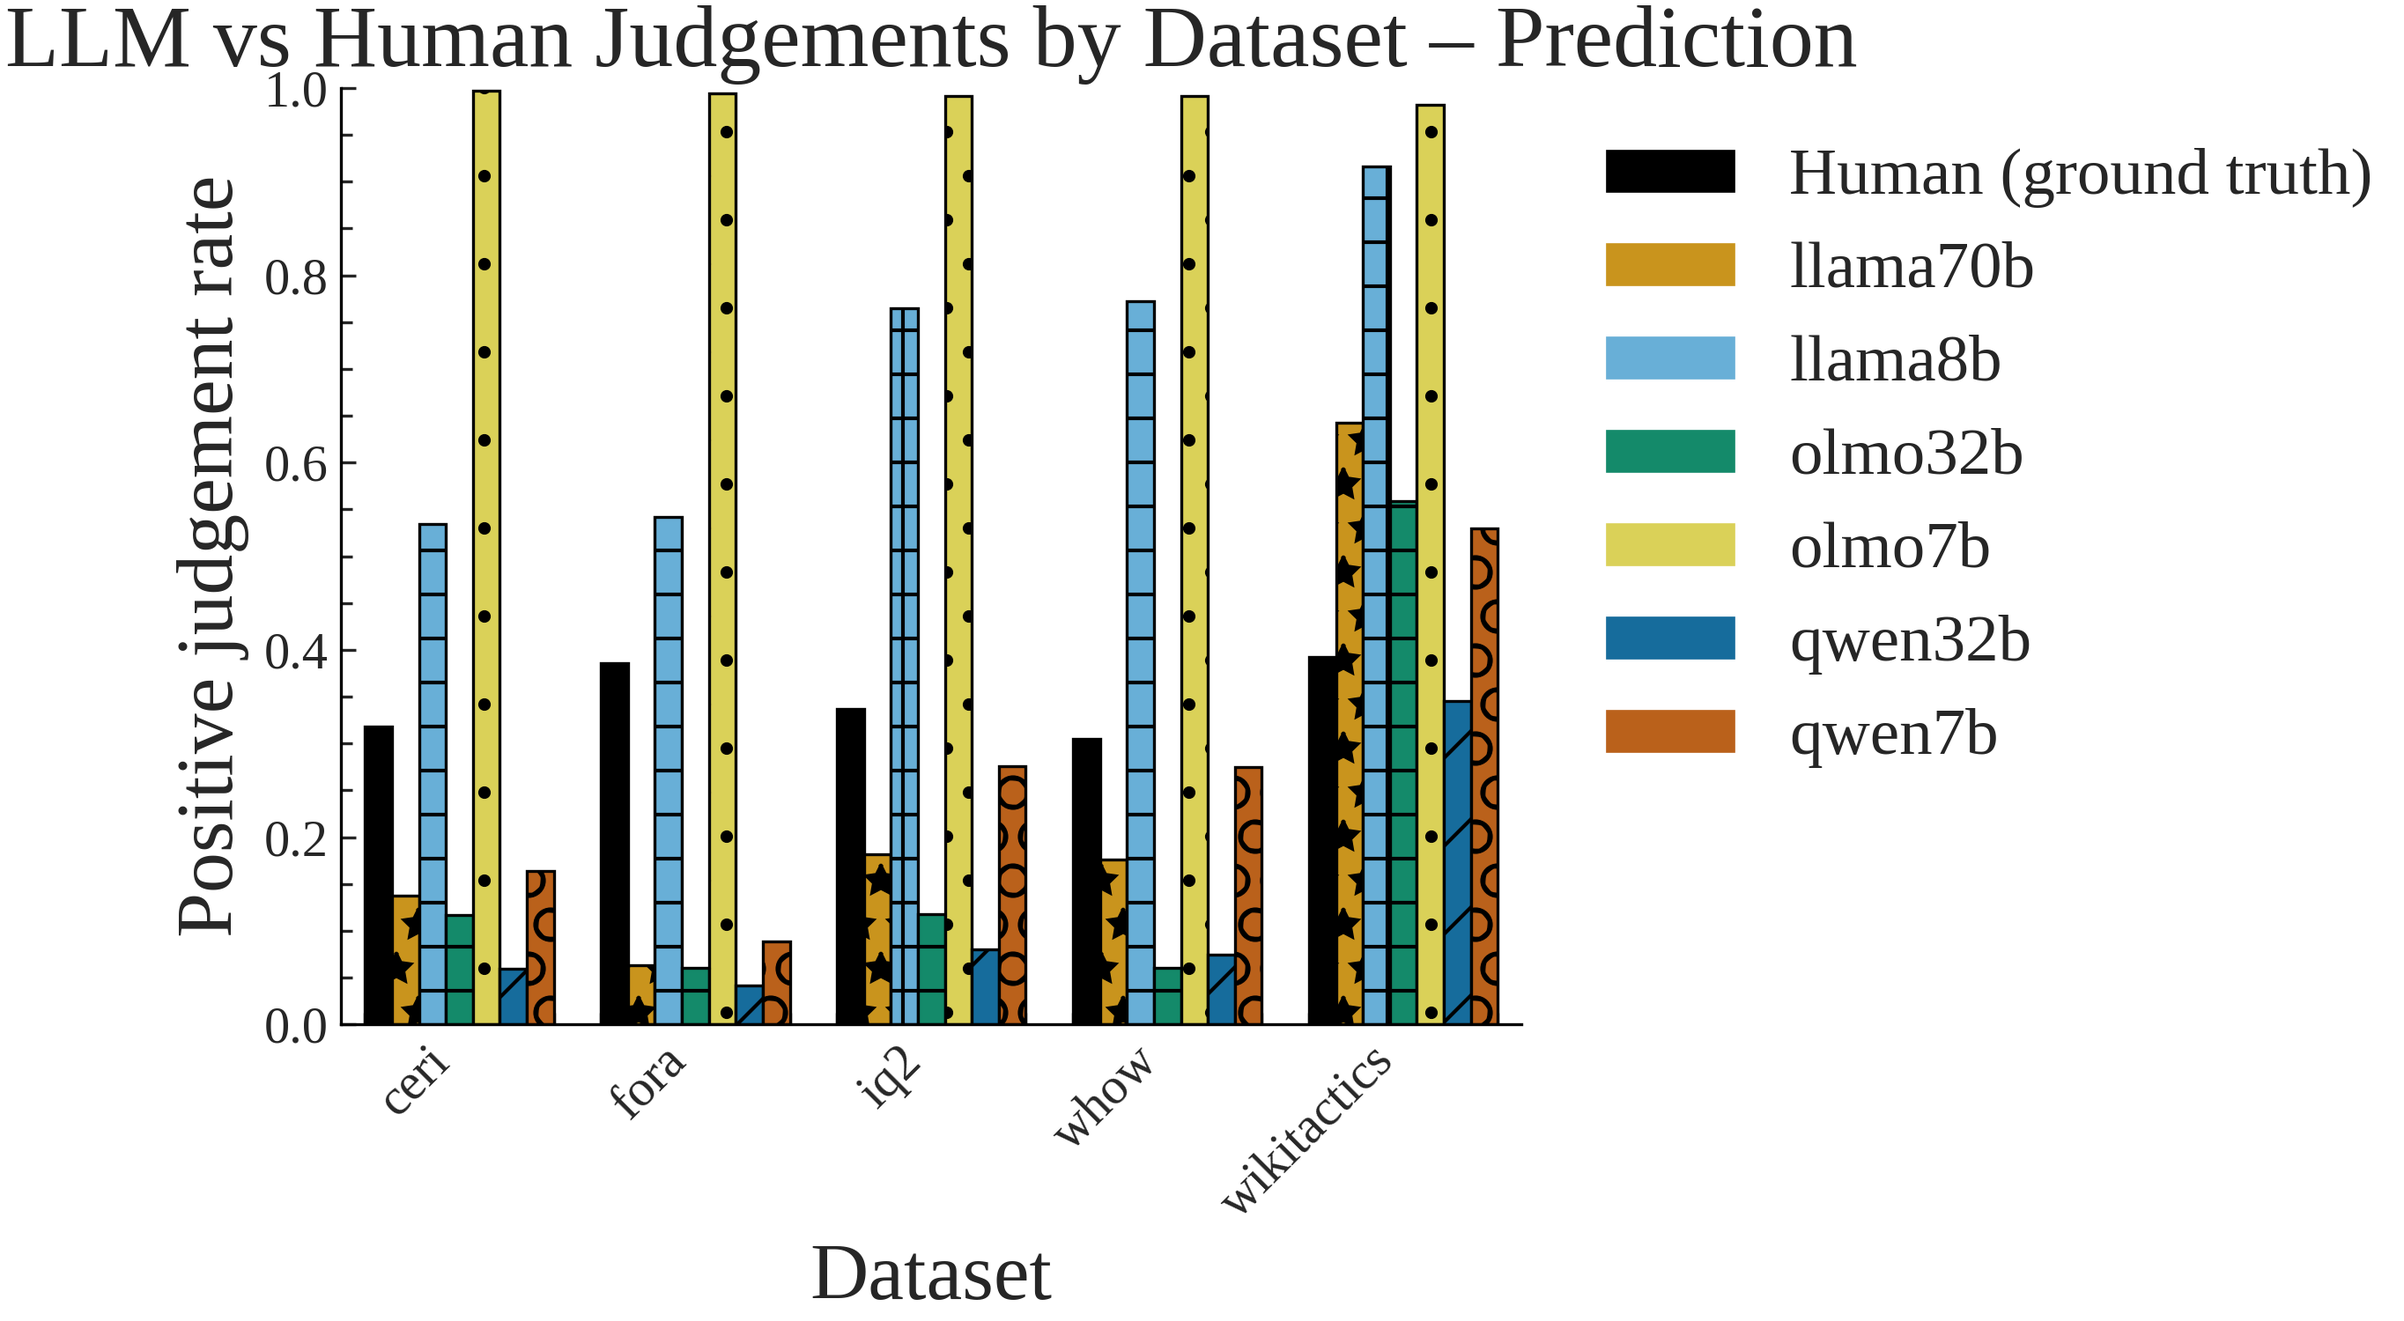
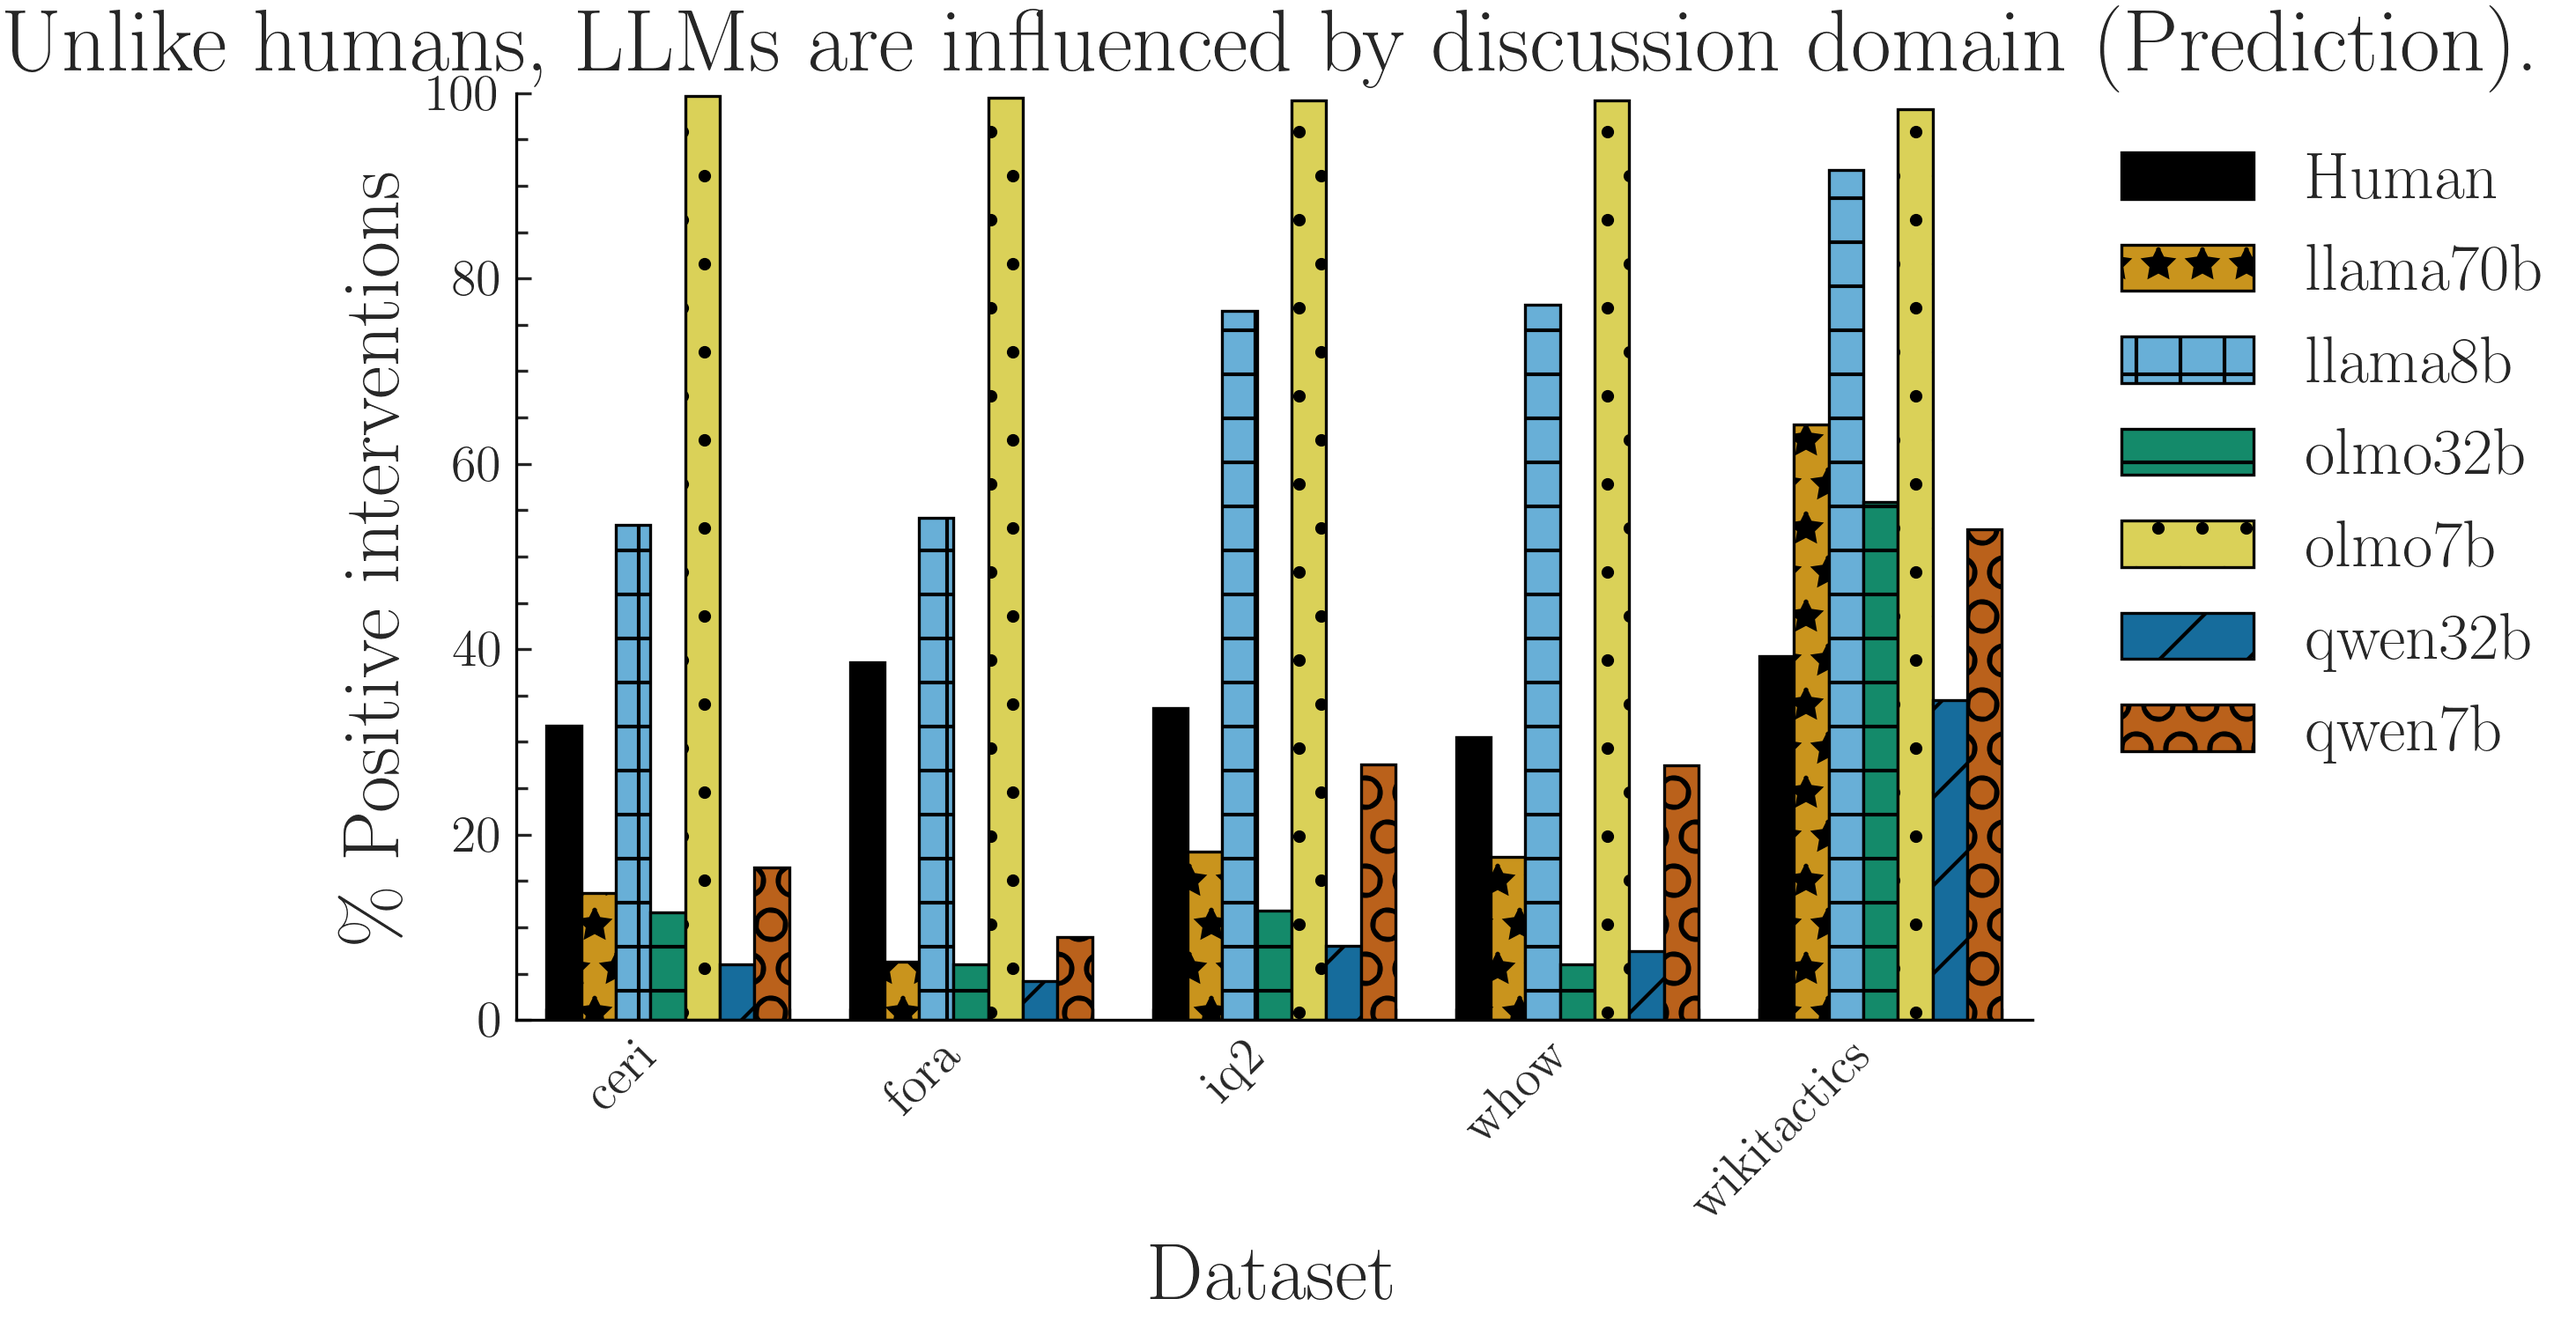
fix graphs

diff --git a/src/judgement_analysis.py b/src/judgement_analysis.py
@@ -64,7 +64,43 @@ TASKS = [
 ]
 
 JUDGEMENT_LABELS = {0: "No (0)", 1: "Yes (1)"}
-HUMAN_LABEL = "Human (ground truth)"
+HUMAN_LABEL = "Human"
+HUMAN_COLOR = "#000000"
+HUMAN_HATCH = ""
+
+
+def build_model_styles(models: list[str]) -> tuple[dict, dict]:
+    """
+    One color + one hatch per model, assigned once from a sorted, global
+    list of model names. Every plot in this script must build its
+    color/hatch maps by slicing *this* dict (never by re-deriving indices
+    locally), so a given model looks identical across every graph and task.
+
+    Index 0 of the palette/hatch lists is reserved for HUMAN_COLOR /
+    HUMAN_HATCH (see plot_llm_vs_human) and is skipped here so no model can
+    ever be assigned the same black / unhatched style as the human bars.
+    """
+    color = {
+        m: COLORBLIND_PALETTE[(i + 1) % len(COLORBLIND_PALETTE)]
+        for i, m in enumerate(models)
+    }
+    hatch = {m: HATCHES[(i + 1) % len(HATCHES)] for i, m in enumerate(models)}
+    return color, hatch
+
+
+def restyle_legend(ax, order: list[str], hatch_map: dict) -> None:
+    """
+    seaborn/matplotlib legend swatches are separate proxy artists that do
+    NOT inherit hatches set on the actual bar patches after the fact, so
+    the legend has to be re-stamped explicitly to stay visually consistent
+    with the bars it's labelling.
+    """
+    legend = ax.get_legend()
+    if legend is None:
+        return
+    for label, handle in zip(order, legend.legend_handles):
+        handle.set_hatch(hatch_map.get(label, ""))
+        handle.set_edgecolor("black")
 
 
 def discover_files(annotations_dir: Path, task_name: str) -> list[Path]:
@@ -107,87 +143,6 @@ def load_task_frames(
     return frames
 
 
-# ---------------------------------------------------------------------------
-# Graph 1: LLM judgement frequency by model and dataset
-# ---------------------------------------------------------------------------
-def plot_judgement_frequency(
-    frames: dict[str, pd.DataFrame], task_name: str, graph_dir: Path
-) -> None:
-    rows = []
-    for model, df in frames.items():
-        valid = df.dropna(subset=["response_binary"])
-        for dataset, judgement in zip(
-            valid["dataset"], valid["response_binary"]
-        ):
-            rows.append(
-                {
-                    "dataset": dataset,
-                    "model": model,
-                    "Judgement": JUDGEMENT_LABELS[int(judgement)],
-                }
-            )
-
-    if not rows:
-        print(
-            f"[info] No valid LLM responses for '{task_name}' frequency graph."
-        )
-        return
-
-    plot_df = pd.DataFrame(rows)
-
-    models = sorted(plot_df["model"].unique())
-    palette = {
-        m: COLORBLIND_PALETTE[i % len(COLORBLIND_PALETTE)]
-        for i, m in enumerate(models)
-    }
-    hatches = {m: HATCHES[i % len(HATCHES)] for i, m in enumerate(models)}
-    dataset_order = sorted(plot_df["dataset"].unique())
-
-    g = sns.catplot(
-        data=plot_df,
-        kind="count",
-        x="dataset",
-        hue="model",
-        col="Judgement",
-        order=dataset_order,
-        hue_order=models,
-        palette=palette,
-        col_order=["No (0)", "Yes (1)"],
-        height=5,
-        aspect=1.1,
-        legend_out=True,
-    )
-
-    for ax in g.axes.flat:
-        # seaborn gives one BarContainer per hue level (model), in hue_order;
-        # stamp every bar in that container with its model's hatch.
-        for model, container in zip(models, ax.containers):
-            for patch in container:
-                patch.set_hatch(hatches[model])
-                patch.set_edgecolor("black")
-
-        ax.set_xlabel("Dataset")
-        ax.set_ylabel("Count")
-        ax.tick_params(axis="x", rotation=45)
-        for label in ax.get_xticklabels():
-            label.set_ha("right")
-        ax.spines["top"].set_visible(False)
-        ax.spines["right"].set_visible(False)
-
-    g.set_titles("LLM judgement: {col_name}")
-    g.fig.suptitle(
-        f"LLM Judgement Frequency by Model and Dataset – {task_name.capitalize()}",
-        y=1.05,
-    )
-
-    util.graphs.save_plot(
-        graph_dir / f"judgement_frequency_by_model_dataset_{task_name}.png"
-    )
-
-
-# ---------------------------------------------------------------------------
-# Graph 2: LLM vs human judgements by dataset
-# ---------------------------------------------------------------------------
 def compute_human_rates(frames: dict[str, pd.DataFrame]) -> pd.DataFrame:
     """
     Pools the ground-truth column across every model's file (since they all
@@ -235,7 +190,12 @@ def compute_model_rates(frames: dict[str, pd.DataFrame]) -> pd.DataFrame:
 
 
 def plot_llm_vs_human(
-    frames: dict[str, pd.DataFrame], task_name: str, graph_dir: Path
+    frames: dict[str, pd.DataFrame],
+    task_name: str,
+    graph_dir: Path,
+    model_color: dict,
+    model_hatch: dict,
+    title: str,
 ) -> None:
     if not frames:
         print(f"[info] No files for '{task_name}' human-vs-LLM graph.")
@@ -252,12 +212,13 @@ def plot_llm_vs_human(
     models = sorted(model_rates["judge"].unique())
     judge_order = [HUMAN_LABEL] + models
     dataset_order = sorted(plot_df["dataset"].unique())
+    plot_df.positive_rate = plot_df.positive_rate * 100
 
-    palette = {HUMAN_LABEL: "#000000"}
-    hatches = {HUMAN_LABEL: ""}
-    for i, m in enumerate(models):
-        palette[m] = COLORBLIND_PALETTE[(i + 1) % len(COLORBLIND_PALETTE)]
-        hatches[m] = HATCHES[(i + 1) % len(HATCHES)]
+    # Human always gets its own fixed black/unhatched style; every model
+    # reuses the exact color+hatch assigned to it in build_model_styles(),
+    # so it looks identical here and in the frequency graph above.
+    palette = {HUMAN_LABEL: HUMAN_COLOR, **{m: model_color[m] for m in models}}
+    hatches = {HUMAN_LABEL: HUMAN_HATCH, **{m: model_hatch[m] for m in models}}
 
     plt.figure(figsize=(9, 5.5))
     ax = sns.barplot(
@@ -276,17 +237,16 @@ def plot_llm_vs_human(
             patch.set_edgecolor("black")
 
     ax.set_xlabel("Dataset")
-    ax.set_ylabel("Positive judgement rate")
-    ax.set_ylim(0, 1)
+    ax.set_ylabel(r"\% Positive interventions")
+    ax.set_ylim(0, 100)
     ax.tick_params(axis="x", rotation=45)
     for label in ax.get_xticklabels():
         label.set_ha("right")
     ax.spines["top"].set_visible(False)
     ax.spines["right"].set_visible(False)
-    ax.set_title(
-        f"LLM vs Human Judgements by Dataset – {task_name.capitalize()}"
-    )
+    ax.set_title(title)
     ax.legend(bbox_to_anchor=(1.02, 1), loc="upper left", frameon=False)
+    restyle_legend(ax, judge_order, hatches)
 
     plt.tight_layout()
     util.graphs.save_plot(
@@ -301,8 +261,24 @@ def main(annotations_dir: Path, graph_dir: Path) -> None:
     util.graphs.seaborn_setup()
     graph_dir.mkdir(parents=True, exist_ok=True)
 
+    # Discover every model across every task first, so a model gets the
+    # exact same color+hatch everywhere, regardless of which task or which
+    # graph it happens to show up in.
+    task_files = {
+        task_name: discover_files(annotations_dir, task_name)
+        for task_name, _, _ in TASKS
+    }
+    all_models = sorted(
+        {
+            model_name_from_path(f)
+            for files in task_files.values()
+            for f in files
+        }
+    )
+    model_color, model_hatch = build_model_styles(all_models)
+
     for task_name, truth_column, exclude_datasets in TASKS:
-        files = discover_files(annotations_dir, task_name)
+        files = task_files[task_name]
         if not files:
             print(f"[info] No files found for task '{task_name}', skipping.")
             continue
@@ -310,8 +286,17 @@ def main(annotations_dir: Path, graph_dir: Path) -> None:
         print(f"\n=== {task_name} ({len(files)} model file(s)) ===")
         frames = load_task_frames(files, truth_column, exclude_datasets)
 
-        plot_judgement_frequency(frames, task_name, graph_dir)
-        plot_llm_vs_human(frames, task_name, graph_dir)
+        plot_llm_vs_human(
+            frames,
+            task_name,
+            graph_dir,
+            model_color,
+            model_hatch,
+            title=(
+                "Unlike humans, LLMs are influenced by discussion domain "
+                f"({task_name.capitalize()})."
+            ),
+        )
 
     print(f"\nAll graphs written to {graph_dir}")
 

diff --git a/src/util/graphs.py b/src/util/graphs.py
@@ -87,7 +87,7 @@ def seaborn_setup() -> None:
 
     plt.rcParams.update(
         {
-            "text.usetex": False,
+            "text.usetex": True,
             # Figure
             "figure.figsize": (12, 8),
             "figure.dpi": 300,
